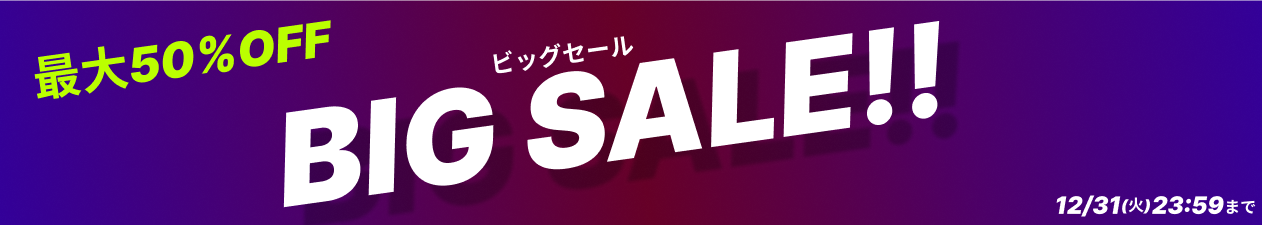
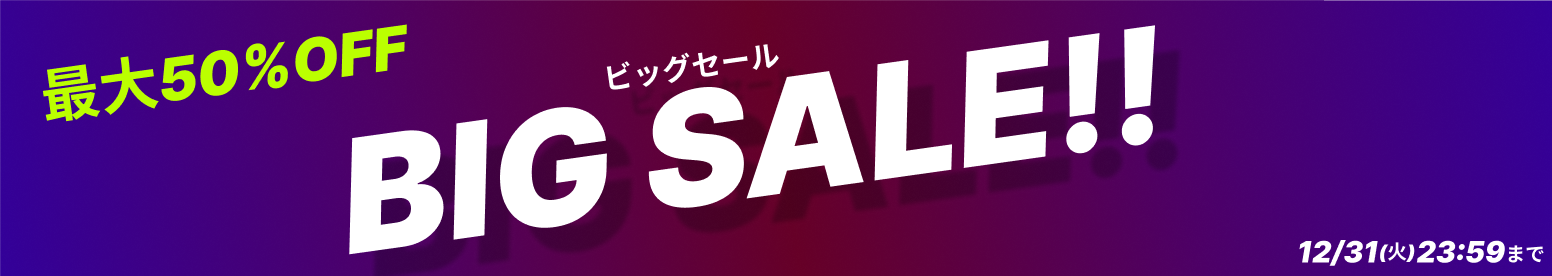
カルーセル画像追加

diff --git a/user/home.php b/user/home.php
@@ -37,7 +37,7 @@ $pdo = new PDO('mysql:host=mysql309.phy.lolipop.lan;dbname=LAA1553864-gamesoya;'
         <div id="items-wrapper">
             <img class="active" src="./../img/gamesoya home pic.png">
             <img src="./../img/bigsale.png">
-            <img src="./../img/gamesoya home pic.png">
+            <img src="./../img/PR.png">
         </div>
 
         <div id="select-tabs">
